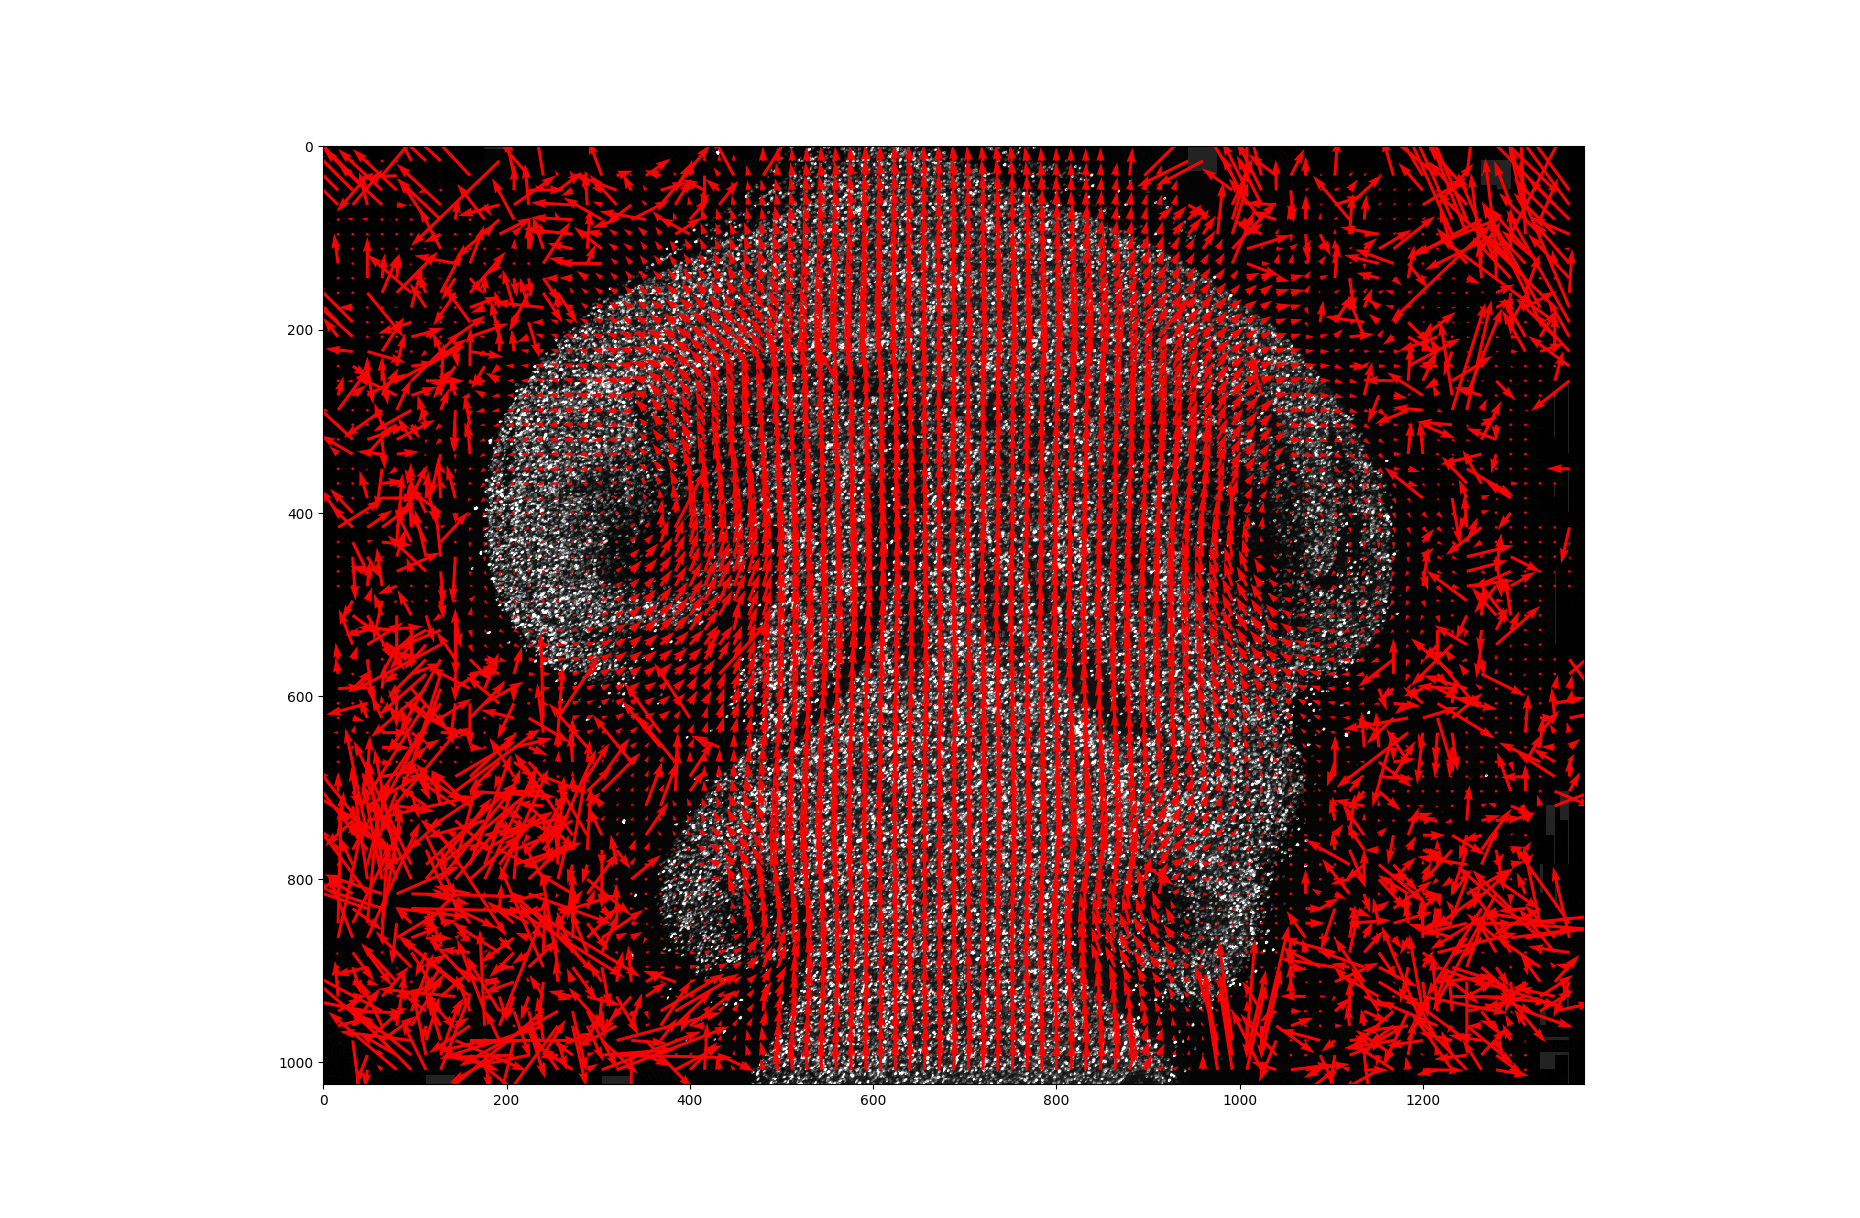
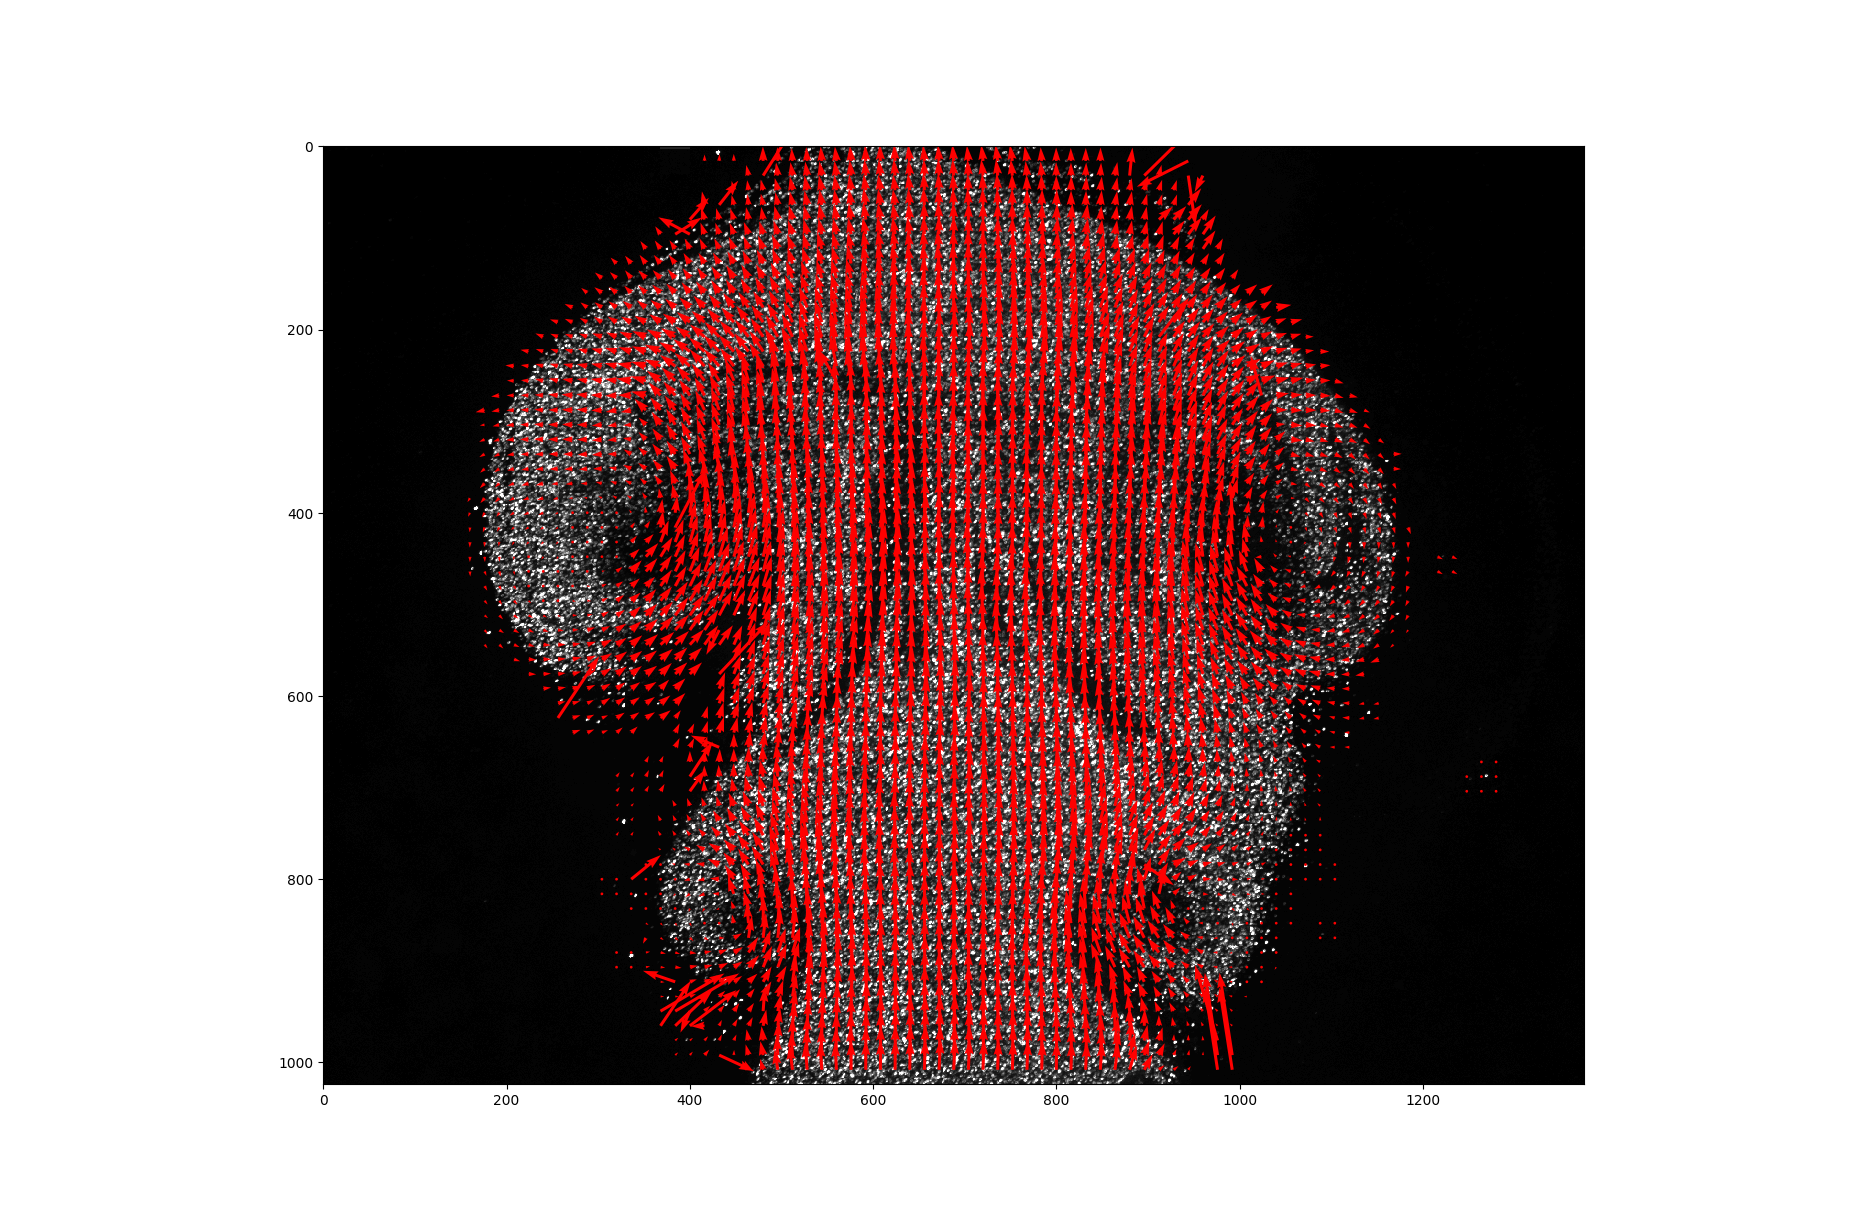
Corrected `img_IW` threshold mechanism on background levels

Changed region(s): [[0.1559, 0.1248, 0.4054, 0.9048], [0.6237, 0.1248, 0.8731, 0.9048], [0.3742, 0.5304, 0.4054, 0.5616]]

diff --git a/src_Python/main.py b/src_Python/main.py
@@ -17,7 +17,6 @@ __version__ = "1.0"
 
 import os
 import sys
-from typing import Any
 from time import perf_counter
 
 import numpy as np
@@ -41,13 +40,6 @@ if FASTER:
 else:
     from convolve2d__my_code import FFTW_Convolver_Full2D
 
-
-# Set the IW sizes for multigrid analysis
-# Subsequent IW sizes should be the exact half of the prev IW size
-IW_SIZES = [64, 32]  # Use powers of 2 [px]
-# IW_SIZES = [64]
-IW_OVERLAP = 0.5  # IW overlap fraction [0 - 1]
-
 DEBUG = False  # Print debug info to terminal?
 SHOW_CORRELATION_MAPS = False
 LOAD_MPL = True
@@ -58,6 +50,10 @@ import matplotlib as mpl
 
 mpl.use("TkAgg")
 
+# Holds the IW sizes for the multigrid analysis. Powers of two are advised with
+# each subsequent IW size the exact half of the previous IW size.
+IW_SIZES = []  # [px]
+IW_OVERLAP = 0.5  # IW overlap fraction [0 - 1]
 
 # ------------------------------------------------------------------------------
 #   Main
@@ -66,6 +62,7 @@ mpl.use("TkAgg")
 if __name__ == "__main__":
     if 1:
         fn = "E:/Work/_GitHub_repo/2D-PIV-BOS/test_imgs/PIV_rising_vortex_plume/B00001.tif"
+        IW_SIZES = [64, 32]
 
         # Read double image and split into frames A & B
         img = imread(fn, as_gray=True)
@@ -76,6 +73,8 @@ if __name__ == "__main__":
     else:
         fn1 = "E:/Work/_GitHub_repo/2D-PIV-BOS/test_imgs/a1.tif"
         fn2 = "E:/Work/_GitHub_repo/2D-PIV-BOS/test_imgs/a2.tif"
+        IW_SIZES = [256, 128, 64, 32]
+
         A = imread(fn1, as_gray=True).astype(np.float32)
         B = imread(fn2, as_gray=True).astype(np.float32)
         img_h, img_w = A.shape
@@ -408,6 +407,8 @@ if __name__ == "__main__":
             # Zero out the appropiate section of the IW of frame B that
             # corresponds to `particles` that are definitely not present in the
             # IW of frame A. Likewise, zero out the IW of frame A.
+            # Zero caries the meaning of being at the mean background level of
+            # the image.
             if zero_out_L > 0:
                 img_IW_B[:, :zero_out_L] = 0
                 img_IW_A[:, -zero_out_L:] = 0
@@ -425,12 +426,11 @@ if __name__ == "__main__":
             #   Perform cross-correlation
             # ------------------------------------------------------------------
 
-            if (
-                img_IW_A.size == 0
-                or np.max(img_IW_A) == 0
-                or np.max(img_IW_B) == 0
-            ):
-                # Save computation time
+            if (np.max(img_IW_A) <= 0) and (np.max(img_IW_B) <= 0):
+                # No details are present in the IW images. All pixels are below
+                # or at the mean background --> Save computation time.
+                # TODO: Make this a user config threshold? Is 0 even correct?
+                # Must match up with 'zeroing out' mechanism, just above here.
                 C_maps[IW_idx, 0, 0] = np.nan
 
             else:
@@ -510,13 +510,25 @@ if __name__ == "__main__":
     quiverX = 3
 
     if LOAD_MPL:
+        grid_x = lVM_grid_x[-1]
+        grid_y = lVM_grid_y[-1]
+        VM_dx = np.copy(lVM_dx[-1])
+        VM_dy = np.copy(lVM_dy[-1])
+
+        # Vector magnitude
+        M = np.sqrt(np.square(VM_dx) + np.square(VM_dy))
+
+        # Threshold on vector magnitude
+        # VM_dx[M < 0.5] = np.nan
+        # VM_dy[M < 0.5] = np.nan
+
         fig = plt.figure()
         plt.imshow(A, cmap="gray", interpolation="none")
         plt.quiver(
-            lVM_grid_x[-1],
-            lVM_grid_y[-1],
-            lVM_dx[-1] * quiverX,
-            lVM_dy[-1] * quiverX,
+            grid_x,
+            grid_y,
+            VM_dx * quiverX,
+            VM_dy * quiverX,
             angles="xy",
             scale_units="xy",
             scale=1,
